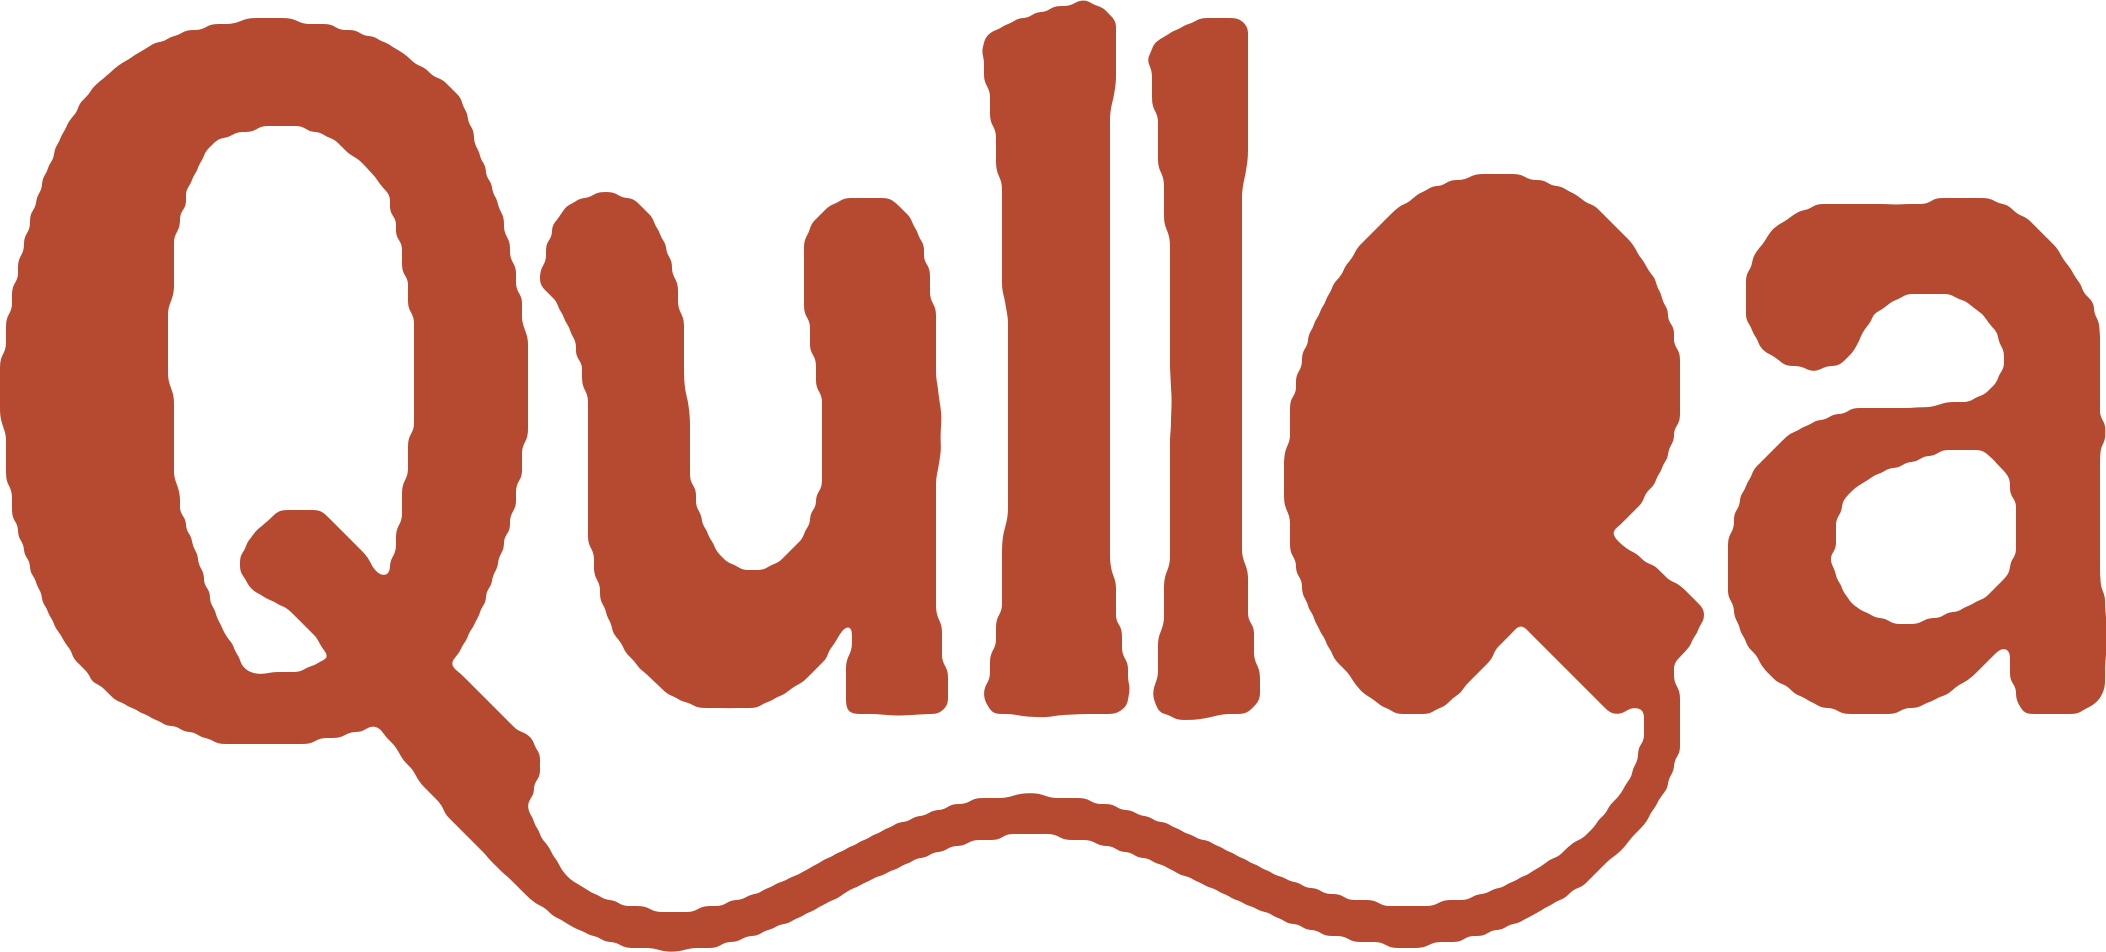
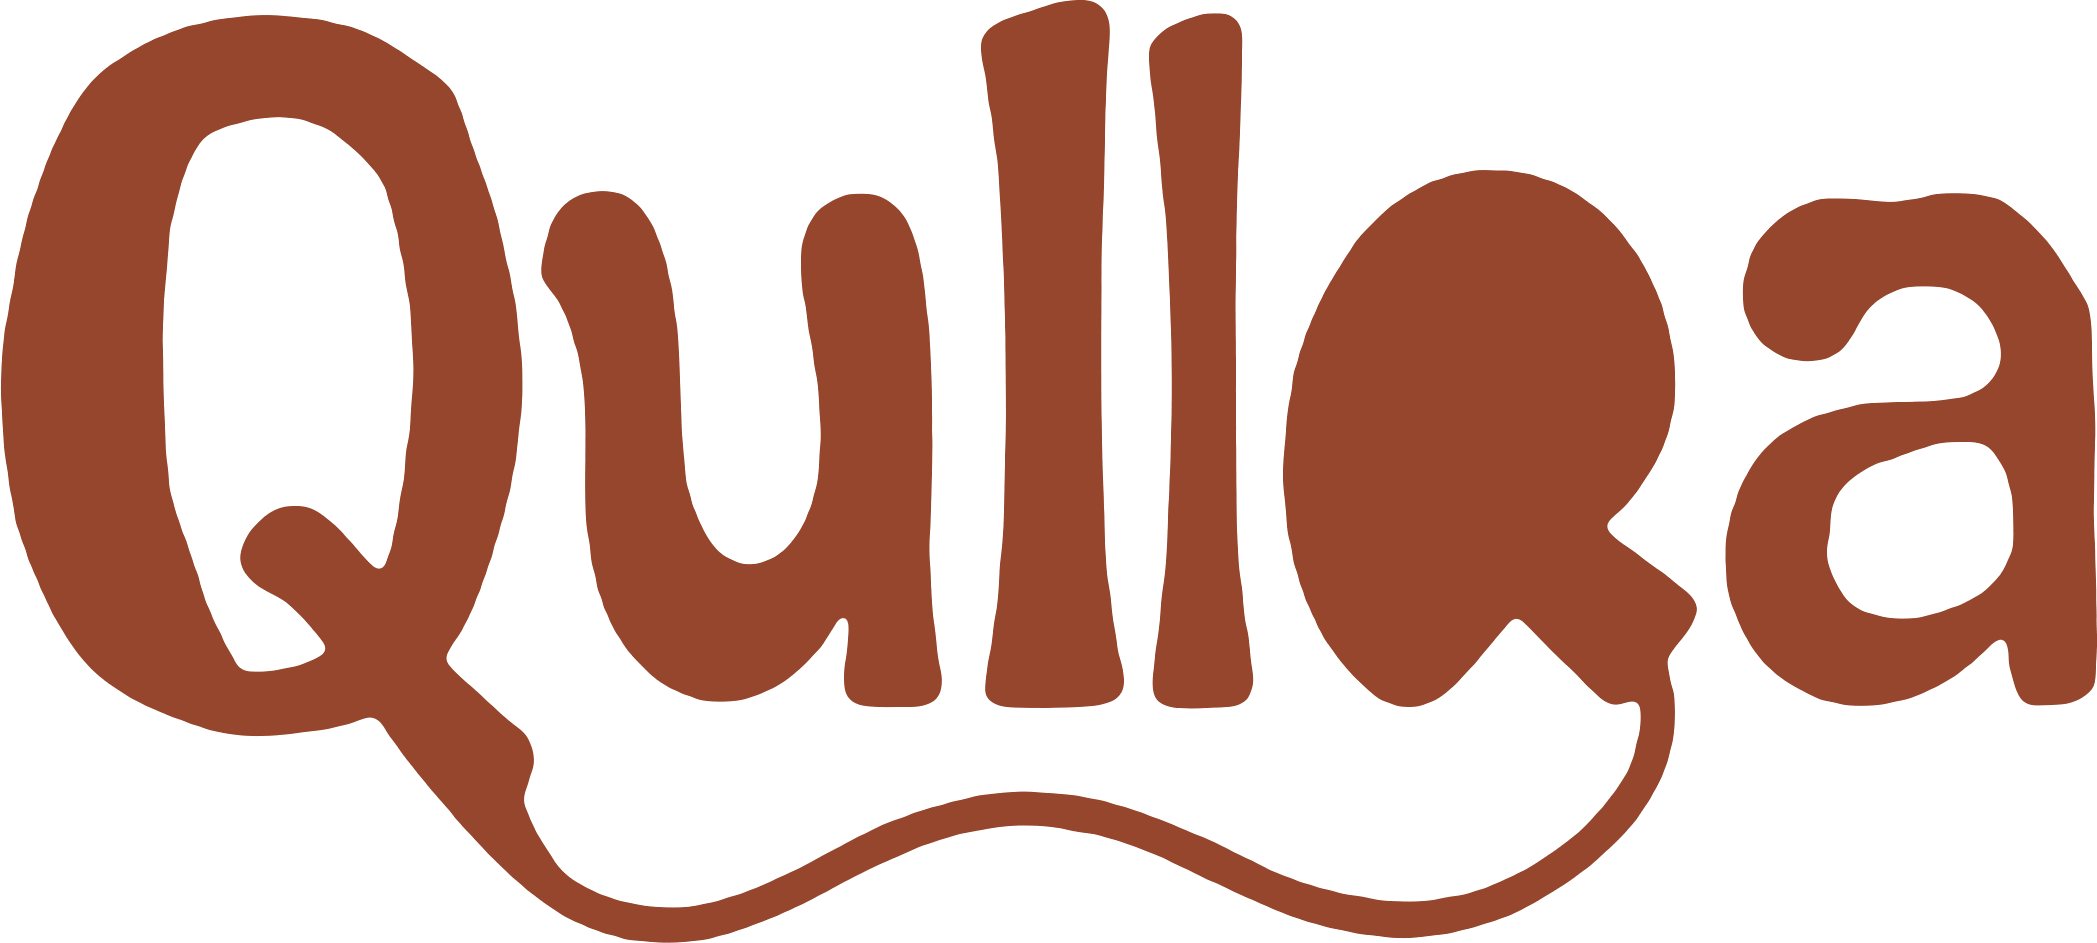
Marca: ícono de la app con los dos hongos (vistas pequeñas) y logotipo «Qullqa» dentro de la app
- public/icon-*, favicon, apple-touch-icon: dos hongos sobre blanco
- Cabecera: logotipo Qullqa en blanco sobre la banda ladrillo (grande en ingreso/portada/inicio, pequeño
  sobre el título en las demás); 404 con el logotipo café; sin el círculo del hongo
- brand/: dos-hongos.png y wordmark.png limpios; el hongo anterior queda en brand/anterior/

diff --git a/apps/web/src/styles.css b/apps/web/src/styles.css
@@ -52,16 +52,14 @@ main { position: relative; max-width: 600px; margin: 0 auto; padding: 0 16px 28p
 .getapp { display: inline-flex; align-items: center; gap: 6px; min-height: 40px; padding: 0 14px; border-radius: 999px; background: #fff; color: var(--brick);
   font-weight: 700; font-size: .85rem; text-decoration: none; white-space: nowrap; box-shadow: 0 2px 8px rgba(0, 0, 0, .12); }
 .hero-actions .badge { background: #fff; }
-.hero-title { display: flex; align-items: center; gap: 12px; margin-top: 10px; }
+.hero-title { display: flex; flex-direction: column; align-items: flex-start; gap: 4px; margin-top: 6px; }
+.wordmark { display: inline-block; line-height: 0; }
+.wordmark img { height: 28px; width: auto; }
+.wordmark.big { display: block; width: fit-content; margin: 10px auto 0; }
+.wordmark.big img { height: 80px; }
 .hero-title h1 { margin: 0; font-size: 1.55rem; color: #fff; }
-.badge-logo { display: grid; place-items: center; width: 108px; height: 108px; border-radius: 50%; background: #fff;
-  border: 5px solid #fff; box-shadow: 0 8px 22px rgba(70, 20, 8, .25); }
-.badge-logo img { width: 68%; height: auto; }
-.badge-logo.small { width: 46px; height: 46px; border-width: 3px; flex: none; box-shadow: 0 3px 8px rgba(70, 20, 8, .25); }
-.hero.big { padding-bottom: 0; min-height: 190px; }
-.hero.big .badge-logo { position: relative; top: 58px; margin: 6px auto 0; }
-.hero-head { text-align: center; padding-top: 70px; margin-bottom: 18px; }
-.brand-name { margin: 0 0 10px; font-weight: 700; font-size: 1rem; }
+.hero.big { padding-bottom: 30px; }
+.hero-head { text-align: center; padding-top: 22px; margin-bottom: 18px; }
 .kicker { margin: 0; color: var(--brick); font-weight: 700; font-size: .85rem; letter-spacing: .08em; text-transform: uppercase; }
 .hero-head h1 { margin: 4px 0 0; font-size: 2rem; }
 .lead { color: var(--muted); margin: 14px 0 16px; font-size: 1rem; }

diff --git a/apps/web/src/components/ui.tsx b/apps/web/src/components/ui.tsx
@@ -44,8 +44,8 @@ export function Page({
         <header className="hero big">
           <span className="hero-deco" aria-hidden />
           {topRow}
-          <Link to="/" className="badge-logo" aria-label="Qullqa, ir al inicio">
-            <img src="/hongo.png" alt="" width={64} height={62} />
+          <Link to="/" className="wordmark big" aria-label="Qullqa, ir al inicio">
+            <img src="/logo-qullqa-white-lg.png" alt="Qullqa" width={178} height={80} />
           </Link>
         </header>
       ) : (
@@ -54,8 +54,8 @@ export function Page({
           {topRow}
           {!hideTitle && (
             <div className="hero-title">
-              <Link to="/" className="badge-logo small" aria-label="Qullqa, ir al inicio">
-                <img src="/hongo.png" alt="" width={30} height={29} />
+              <Link to="/" className="wordmark" aria-label="Qullqa, ir al inicio">
+                <img src="/logo-qullqa-white.png" alt="Qullqa" width={62} height={28} />
               </Link>
               <h1>{title}</h1>
             </div>
@@ -65,7 +65,6 @@ export function Page({
       <main>
         {variant === 'hero' && (
           <div className="hero-head">
-            <p className="brand-name">Qullqa</p>
             {kicker && <p className="kicker">{kicker}</p>}
             {!hideTitle && <h1>{title}</h1>}
           </div>

diff --git a/apps/web/src/pages/NotFoundPage.tsx b/apps/web/src/pages/NotFoundPage.tsx
@@ -4,7 +4,7 @@ export function NotFoundPage() {
   return (
     <Page title="Página no encontrada">
       <div className="center">
-        <img src="/hongo.png" alt="" width={110} style={{ opacity: 0.85, margin: '16px 0' }} />
+        <img src="/logo-qullqa-lg.png" alt="Qullqa" width={200} style={{ margin: '24px 0 8px', height: 'auto' }} />
         <p className="lead">El enlace no existe o cambió. Vuelve al inicio para seguir.</p>
       </div>
       <LinkButton to="/">Ir al inicio</LinkButton>

diff --git a/apps/web/vite.config.ts b/apps/web/vite.config.ts
@@ -7,7 +7,7 @@ export default defineConfig({
     react(),
     VitePWA({
       registerType: 'autoUpdate',
-      includeAssets: ['favicon.png', 'apple-touch-icon.png', 'logo-qullqa.png', 'hongo.png'],
+      includeAssets: ['favicon.png', 'apple-touch-icon.png', 'logo-qullqa.png', 'logo-qullqa-white.png', 'logo-qullqa-white-lg.png'],
       manifest: {
         name: 'Qullqa',
         short_name: 'Qullqa',
